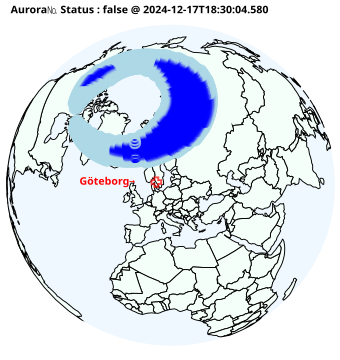
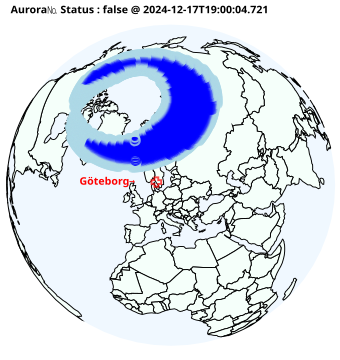
20241217190018 added aur.html

Changed region(s): [[0.1765, 0.1528, 0.6765, 0.4889], [0.7353, 0.0, 0.7941, 0.0611], [0.6176, 0.0, 0.6765, 0.0306]]

diff --git a/aur.html b/aur.html
@@ -7,6 +7,6 @@
 <body>
     <h1>Aurora Watch</h1>
     <img src="a.png" alt="Aurora Image" style="width:100%;max-width:600px;">
-    <p>Aurora Level 🌌= (0.0) was observed. (2024-12-17T18:30:04.580)</p>
+    <p>Aurora Level 🌌= (0.0) was observed. (2024-12-17T19:00:04.721)</p>
 </body>
 </html>
